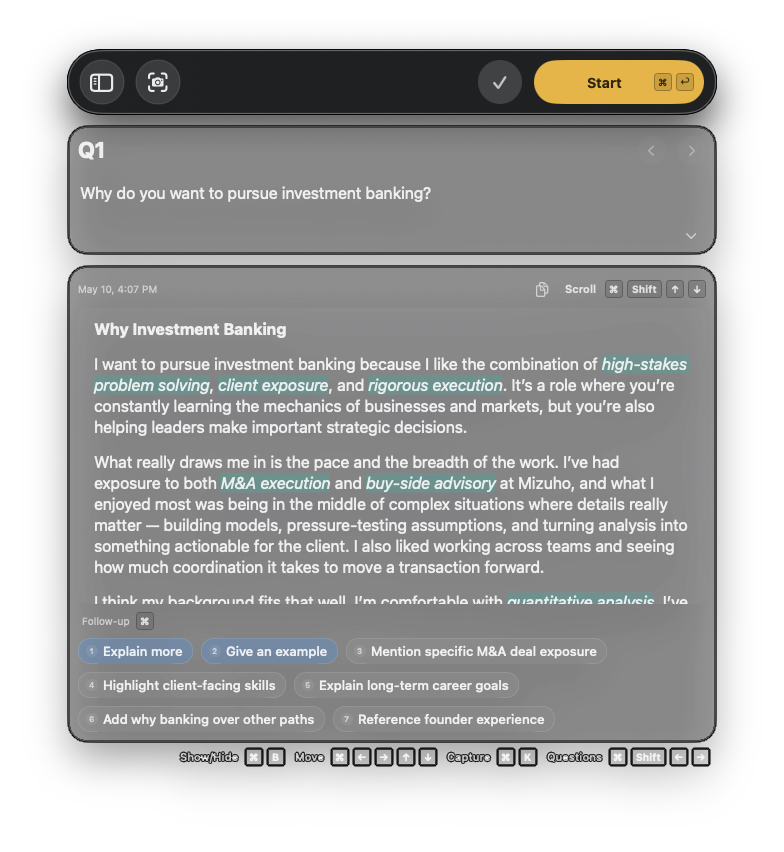
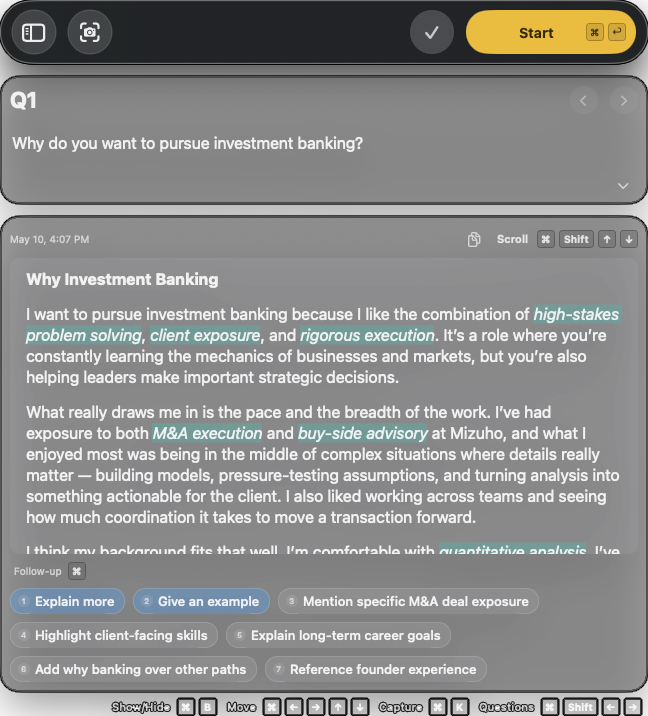
Update hero device preview toggle

diff --git a/components/sections/HeroSection.tsx b/components/sections/HeroSection.tsx
@@ -1,5 +1,6 @@
 'use client'
 
+import { useEffect, useState } from 'react'
 import {
   Box,
   Container,
@@ -7,6 +8,8 @@ import {
   Icon,
   Stack,
   Text,
+  useBreakpointValue,
+  usePrefersReducedMotion,
   VStack,
 } from '@chakra-ui/react'
 import { Br, Link } from '@saas-ui/react'
@@ -15,6 +18,8 @@ import {
   FiArrowRight,
   FiCheckCircle,
   FiDownload,
+  FiMonitor,
+  FiSmartphone,
 } from 'react-icons/fi'
 import { FaStar } from 'react-icons/fa'
 
@@ -27,6 +32,10 @@ import { ASSETS, INTERNAL_ROUTES } from '#constants'
 import { heroPulseAnimation } from '#theme/styles/section-styles'
 
 const platformSignupHref = 'https://platform.interviewpilot.app/signup'
+const heroImageCycleMs = 3400
+const heroImageFadeMs = 700
+const heroImageManualPauseMs = 9000
+type HeroImageView = 'mobile' | 'desktop'
 
 const socialProofAvatars = [
   {
@@ -87,6 +96,51 @@ export function HeroSection() {
   const platform = usePlatform()
   const downloadHref = getPrimaryDownloadHref(platform)
   const downloadCta = getHeroDownloadCta(platform)
+  const startsWithDesktop =
+    useBreakpointValue({ base: false, lg: true }, { ssr: false }) ?? false
+  const prefersReducedMotion = usePrefersReducedMotion()
+  const [activeHeroImage, setActiveHeroImage] =
+    useState<HeroImageView>('mobile')
+  const [hasManualHeroImageSelection, setHasManualHeroImageSelection] =
+    useState(false)
+  const visibleHeroImage = startsWithDesktop ? activeHeroImage : 'mobile'
+  const heroImageTransition = prefersReducedMotion
+    ? 'none'
+    : `opacity ${heroImageFadeMs}ms cubic-bezier(0.22, 1, 0.36, 1)`
+  const selectHeroImage = (image: HeroImageView) => {
+    setHasManualHeroImageSelection(true)
+    setActiveHeroImage(image)
+  }
+
+  useEffect(() => {
+    setActiveHeroImage(startsWithDesktop ? 'desktop' : 'mobile')
+  }, [startsWithDesktop])
+
+  useEffect(() => {
+    if (prefersReducedMotion || hasManualHeroImageSelection) {
+      return
+    }
+
+    const cycle = window.setInterval(() => {
+      setActiveHeroImage((current) =>
+        current === 'mobile' ? 'desktop' : 'mobile',
+      )
+    }, heroImageCycleMs)
+
+    return () => window.clearInterval(cycle)
+  }, [hasManualHeroImageSelection, prefersReducedMotion])
+
+  useEffect(() => {
+    if (!hasManualHeroImageSelection) {
+      return
+    }
+
+    const resumeRotation = window.setTimeout(() => {
+      setHasManualHeroImageSelection(false)
+    }, heroImageManualPauseMs)
+
+    return () => window.clearTimeout(resumeRotation)
+  }, [activeHeroImage, hasManualHeroImageSelection])
 
   return (
     <Box overflow="hidden">
@@ -395,22 +449,18 @@ export function HeroSection() {
           >
             <Box>
               <Box
-                overflow="hidden"
+                overflow={{ base: 'hidden', lg: 'visible' }}
                 height="100%"
                 display="flex"
                 justifyContent="center"
                 alignItems="center"
                 position="relative"
                 zIndex={1}
-                sx={{
-                  maskImage: 'linear-gradient(to bottom, black 0%, black 90%, transparent 100%)',
-                  WebkitMaskImage:
-                    'linear-gradient(to bottom, black 0%, black 90%, transparent 100%)',
-                }}
               >
                 <Box
-                  overflow="hidden"
+                  overflow="visible"
                   transform={{ base: 'translate(48px, 36px)', md: 'none' }}
+                  position="relative"
                 >
                   <Image
                     src={ASSETS.screenshots.heroHand}
@@ -425,8 +475,96 @@ export function HeroSection() {
                       height: 'auto',
                       objectFit: 'contain',
                       display: 'block',
+                      opacity: visibleHeroImage === 'mobile' ? 1 : 0,
+                      transition: heroImageTransition,
+                      maskImage:
+                        'linear-gradient(to bottom, black 0%, black 90%, transparent 100%)',
+                      WebkitMaskImage:
+                        'linear-gradient(to bottom, black 0%, black 90%, transparent 100%)',
                     }}
                   />
+                  <Box
+                    display={{ base: 'none', lg: 'block' }}
+                    position="absolute"
+                    top="0"
+                    left="0"
+                    h="88%"
+                    w="fit-content"
+                  >
+                    <HStack
+                      position="absolute"
+                      top="-12"
+                      right="0"
+                      zIndex={2}
+                      p="1"
+                      spacing="1"
+                      borderRadius="full"
+                      bg="rgba(12, 12, 14, 0.72)"
+                      border="1px solid"
+                      borderColor="whiteAlpha.200"
+                      boxShadow="0 18px 55px rgba(0, 0, 0, 0.34)"
+                      backdropFilter="blur(18px)"
+                    >
+                      {(['mobile', 'desktop'] as const).map((image) => {
+                        const isSelected = visibleHeroImage === image
+
+                        return (
+                          <Box
+                            key={image}
+                            as="button"
+                            type="button"
+                            aria-pressed={isSelected}
+                            onClick={() => selectHeroImage(image)}
+                            px="3"
+                            h="6"
+                            borderRadius="full"
+                            fontSize="xs"
+                            fontWeight="semibold"
+                            color={isSelected ? 'white' : 'whiteAlpha.700'}
+                            bg={isSelected ? 'whiteAlpha.200' : 'transparent'}
+                            transition="all 160ms ease"
+                            _hover={{
+                              color: 'white',
+                              bg: isSelected
+                                ? 'whiteAlpha.200'
+                                : 'whiteAlpha.100',
+                            }}
+                          >
+                            <HStack spacing="1.5">
+                              <Icon
+                                as={
+                                  image === 'mobile'
+                                    ? FiSmartphone
+                                    : FiMonitor
+                                }
+                                boxSize="3"
+                              />
+                              <Text as="span">
+                                {image === 'mobile' ? 'Mobile' : 'Desktop'}
+                              </Text>
+                            </HStack>
+                          </Box>
+                        )
+                      })}
+                    </HStack>
+                    <Image
+                      src="/static/screenshots/interview-copilot-desktop.png"
+                      width={648}
+                      height={716}
+                      alt="Interview Pilot desktop Copilot app screenshot"
+                      priority
+                      sizes="(max-width: 1199px) 610px, 58vw"
+                      style={{
+                        width: 'auto',
+                        height: '100%',
+                        maxWidth: 'none',
+                        objectFit: 'contain',
+                        display: 'block',
+                        opacity: visibleHeroImage === 'desktop' ? 1 : 0,
+                        transition: heroImageTransition,
+                      }}
+                    />
+                  </Box>
                 </Box>
               </Box>
             </Box>

diff --git a/components/marketing/interview-copilot-hero.tsx b/components/marketing/interview-copilot-hero.tsx
@@ -2,7 +2,6 @@
 
 import {
   Box,
-  Button,
   Container,
   HStack,
   Icon,
@@ -14,6 +13,7 @@ import { Br } from '@saas-ui/react'
 import Image from 'next/image'
 import { FiArrowRight, FiCheckCircle, FiDownload } from 'react-icons/fi'
 
+import { ButtonLink } from '#components/button-link/button-link'
 import { Em } from '#components/typography'
 import { APP_STORE_LINKS, ASSETS, PLATFORM_LINKS } from '#constants'
 import { heroPulseAnimation } from '#theme/styles/section-styles'
@@ -118,7 +118,7 @@ export function InterviewCopilotHero() {
         </VStack>
       </Container>
 
-      <Container maxW="container.lg" pt={{ base: 14, md: 20 }} pb={{ base: 8, md: 10 }}>
+      <Container maxW="container.xl" pt={{ base: 14, md: 20 }} pb={{ base: 8, md: 10 }}>
         <VStack spacing={{ base: 8, md: 10 }} align="stretch">
           <Box textAlign="center" position="relative" zIndex={1}>
             <Text as="h2" fontSize={{ base: '4xl', lg: '4xl' }} fontWeight="bold" color="white">
@@ -135,37 +135,81 @@ export function InterviewCopilotHero() {
               Use the desktop app for a focused interview overlay with live answer
               guidance, follow-up suggestions, and keyboard-first controls.
             </Text>
-            <Button
-              as={Link}
-              href={PLATFORM_LINKS.desktopDownload}
-              isExternal
+            <HStack
               mt={6}
-              variant="primary"
-              color="black"
-              borderRadius="full"
-              h="50px"
-              minW="240px"
-              fontWeight="bold"
-              fontSize="xl"
-              leftIcon={<FiDownload />}
-              _hover={{
-                bg: 'primary.300',
-                textDecoration: 'none',
-                transform: 'translateY(-1px)',
-              }}
-              transition="all 0.2s ease"
+              spacing={4}
+              justify="center"
+              flexWrap="wrap"
             >
-              Download Desktop App
-            </Button>
+              {[
+                {
+                  label: 'Get for Windows',
+                  href: PLATFORM_LINKS.windowsDesktopDownload,
+                  iconSrc: '/static/icons/platforms/windows.svg',
+                },
+                {
+                  label: 'Get for Mac',
+                  href: PLATFORM_LINKS.macDesktopDownload,
+                  iconSrc: '/static/icons/platforms/apple.svg',
+                  iconFilter: 'invert(1)',
+                },
+              ].map((cta) => (
+                <ButtonLink
+                  key={cta.label}
+                  variant="primary"
+                  color="black"
+                  href={cta.href}
+                  borderRadius="full"
+                  p="1"
+                  h="56px"
+                  display="inline-grid"
+                  gridTemplateColumns="46px max-content"
+                  alignItems="center"
+                  justifyContent="center"
+                  whiteSpace="nowrap"
+                >
+                  <Box
+                    w="46px"
+                    h="46px"
+                    borderRadius="full"
+                    bg="black"
+                    color="white"
+                    display="inline-flex"
+                    alignItems="center"
+                    justifyContent="center"
+                  >
+                    <Box
+                      as="img"
+                      src={cta.iconSrc}
+                      alt=""
+                      w="16px"
+                      h="16px"
+                      filter={cta.iconFilter}
+                    />
+                  </Box>
+                  <HStack
+                    spacing="2"
+                    justifyContent="center"
+                    lineHeight="1"
+                    px="8"
+                  >
+                    <Text as="span" fontWeight="semibold" fontSize="2xl">
+                      {cta.label}
+                    </Text>
+                    <Icon as={FiDownload} boxSize="18px" />
+                  </HStack>
+                </ButtonLink>
+              ))}
+            </HStack>
           </Box>
 
-          <Box position="relative" zIndex={1} maxW="860px" mx="auto">
+          <Box position="relative" zIndex={1} maxW="1040px" mx="auto">
             <Image
               src="/static/screenshots/interview-copilot-desktop.png"
-              width={800}
-              height={642}
+              width={648}
+              height={716}
               alt="Interview Pilot desktop Copilot answer interface"
-              sizes="(max-width: 767px) 92vw, 860px"
+              sizes="(max-width: 767px) 92vw, 1040px"
               style={{
                 width: '100%',
                 height: 'auto',